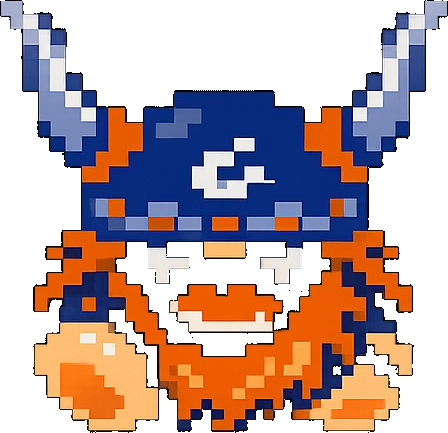
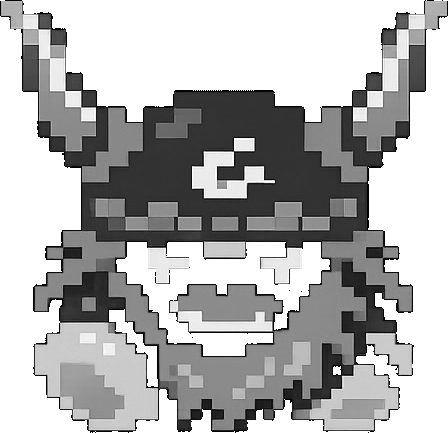
Adjust colors

diff --git a/src/ui/settings_panel.py b/src/ui/settings_panel.py
@@ -111,14 +111,14 @@ class Slider:
         self.dragging = False
         self.hovered = False
         
-        # Colors
-        self.track_color = (60, 60, 60)
-        self.track_fill_color = (80, 120, 180)
-        self.handle_color = (180, 180, 180)
-        self.handle_hover_color = (220, 220, 220)
-        self.handle_drag_color = (100, 150, 220)
-        self.label_color = (200, 200, 200)
-        self.value_color = (150, 200, 255)
+        # Colors (duller to make arrows stand out)
+        self.track_color = (30, 30, 30)
+        self.track_fill_color = (40, 50, 70)
+        self.handle_color = (70, 70, 70)
+        self.handle_hover_color = (85, 85, 85)
+        self.handle_drag_color = (50, 60, 80)
+        self.label_color = (80, 80, 80)
+        self.value_color = (60, 75, 95)
         
     def _update_handle_position(self):
         """Update handle position based on current value"""
@@ -199,7 +199,7 @@ class Slider:
             color = self.handle_color
             
         pygame.draw.rect(screen, color, self.handle_rect, border_radius=4)
-        pygame.draw.rect(screen, (100, 100, 100), self.handle_rect, 1, border_radius=4)
+        pygame.draw.rect(screen, (45, 45, 45), self.handle_rect, 1, border_radius=4)
         
         # Draw value
         value_text = self.format_str.format(self.value)
@@ -249,13 +249,13 @@ class Dropdown:
         self.is_open = False
         self.hovered_index = -1
         
-        # Colors
-        self.bg_color = (50, 50, 50)
-        self.hover_color = (70, 90, 120)
-        self.border_color = (100, 100, 100)
-        self.text_color = (200, 200, 200)
-        self.label_color = (200, 200, 200)
-        self.arrow_color = (150, 150, 150)
+        # Colors (duller to make arrows stand out)
+        self.bg_color = (25, 25, 25)
+        self.hover_color = (35, 40, 50)
+        self.border_color = (45, 45, 45)
+        self.text_color = (80, 80, 80)
+        self.label_color = (80, 80, 80)
+        self.arrow_color = (60, 60, 60)
         
     def handle_event(self, event: pygame.event.Event) -> bool:
         """
@@ -383,9 +383,9 @@ class Button:
         rect: pygame.Rect,
         text: str,
         font: pygame.font.Font = None,
-        color: Tuple[int, int, int] = (70, 70, 70),
-        hover_color: Tuple[int, int, int] = (90, 110, 140),
-        text_color: Tuple[int, int, int] = (220, 220, 220),
+        color: Tuple[int, int, int] = (35, 35, 35),
+        hover_color: Tuple[int, int, int] = (45, 50, 60),
+        text_color: Tuple[int, int, int] = (85, 85, 85),
     ):
         self.rect = rect
         self.text = text
@@ -416,7 +416,7 @@ class Button:
         color = self.hover_color if self.hovered else self.color
         
         pygame.draw.rect(screen, color, self.rect, border_radius=5)
-        pygame.draw.rect(screen, (120, 120, 120), self.rect, 2, border_radius=5)
+        pygame.draw.rect(screen, (55, 55, 55), self.rect, 2, border_radius=5)
         
         text_surface = self.font.render(self.text, True, self.text_color)
         text_rect = text_surface.get_rect(center=self.rect.center)
@@ -479,11 +479,11 @@ class SettingsPanel:
         self.label_font = pygame.font.Font(None, 24)
         self.info_font = pygame.font.Font(None, 22)
         
-        # Colors
-        self.bg_color = (35, 35, 40)
-        self.border_color = (80, 80, 90)
-        self.title_color = (220, 220, 230)
-        self.info_color = (150, 180, 220)
+        # Colors (duller to make arrows stand out)
+        self.bg_color = (20, 20, 22)
+        self.border_color = (40, 40, 45)
+        self.title_color = (90, 90, 95)
+        self.info_color = (60, 70, 85)
         
         # Create UI elements
         self._create_ui_elements()
@@ -563,8 +563,8 @@ class SettingsPanel:
             ),
             text="Apply",
             font=self.label_font,
-            color=(50, 100, 50),
-            hover_color=(70, 140, 70),
+            color=(25, 45, 25),
+            hover_color=(35, 60, 35),
         )
         
         self.cancel_button = Button(
@@ -576,8 +576,8 @@ class SettingsPanel:
             ),
             text="Cancel",
             font=self.label_font,
-            color=(100, 50, 50),
-            hover_color=(140, 70, 70),
+            color=(45, 25, 25),
+            hover_color=(60, 35, 35),
         )
         
     def set_values(self, values: SettingsValues):
@@ -744,7 +744,7 @@ class SettingsPanel:
         duration_s = duration_ms / 1000
         
         duration_text = f"Est. selection time: {duration_s:.1f}s"
-        duration_surface = self.info_font.render(duration_text, True, (120, 150, 120))
+        duration_surface = self.info_font.render(duration_text, True, (50, 65, 50))
         duration_rect = duration_surface.get_rect(
             centerx=self.panel_rect.centerx,
             top=info_y + 22
@@ -819,11 +819,11 @@ def demo():
                 pass
                 
         # Draw
-        screen.fill((30, 30, 35))
+        screen.fill((10, 10, 12))
         
         # Draw background info
         if not panel.is_visible:
-            text = font.render("Press S to open settings", True, (100, 100, 100))
+            text = font.render("Press S to open settings", True, (50, 50, 50))
             rect = text.get_rect(center=(screen_width // 2, screen_height // 2))
             screen.blit(text, rect)
             

diff --git a/src/ui/mode_selector.py b/src/ui/mode_selector.py
@@ -30,12 +30,12 @@ MODE_CONFIGS = {
     AppMode.DATA_COLLECTION: ModeConfig(
         name="Data Collection",
         description="Collect EEG training data for BCI calibration",
-        color=(180, 180, 180),  # Light gray
+        color=(70, 70, 70),  # Dull gray
     ),
     AppMode.GAME: ModeConfig(
         name="Game Mode", 
         description="Play the maze game using BCI control",
-        color=(140, 140, 140),  # Medium gray
+        color=(60, 60, 60),  # Dull gray
     ),
 }
 
@@ -61,15 +61,15 @@ class ModeSelector:
         self.desc_font = pygame.font.Font(None, 28)
         self.hint_font = pygame.font.Font(None, 24)
         
-        # Colors (grayscale)
-        self.bg_color = (20, 20, 20)
-        self.title_color = (220, 220, 220)
-        self.subtitle_color = (140, 140, 140)
-        self.button_color = (50, 50, 50)
-        self.button_hover_color = (80, 80, 80)
-        self.button_text_color = (200, 200, 200)
-        self.desc_color = (120, 120, 120)
-        self.hint_color = (80, 80, 80)
+        # Colors (much duller grayscale to make arrows stand out)
+        self.bg_color = (10, 10, 10)
+        self.title_color = (90, 90, 90)
+        self.subtitle_color = (60, 60, 60)
+        self.button_color = (25, 25, 25)
+        self.button_hover_color = (40, 40, 40)
+        self.button_text_color = (80, 80, 80)
+        self.desc_color = (55, 55, 55)
+        self.hint_color = (40, 40, 40)
         
         # Button dimensions
         self.button_width = 400
@@ -155,7 +155,7 @@ class ModeSelector:
             pygame.draw.rect(screen, bg_color, rect, border_radius=10)
             
             # Button border
-            border_color = (150, 150, 150) if is_hovered else (100, 100, 100)
+            border_color = (60, 60, 60) if is_hovered else (45, 45, 45)
             pygame.draw.rect(screen, border_color, rect, 2, border_radius=10)
             
             # Mode indicator bar on left
@@ -274,11 +274,11 @@ if __name__ == "__main__":
             
             # Show hint
             font = pygame.font.Font(None, 36)
-            text = font.render(f"Running in {MODE_CONFIGS[selected_mode].name}", True, (150, 150, 150))
+            text = font.render(f"Running in {MODE_CONFIGS[selected_mode].name}", True, (60, 60, 60))
             rect = text.get_rect(center=(screen_width // 2, screen_height // 2))
             screen.blit(text, rect)
             
-            hint = pygame.font.Font(None, 24).render("Press ESC to go back", True, (80, 80, 80))
+            hint = pygame.font.Font(None, 24).render("Press ESC to go back", True, (40, 40, 40))
             hint_rect = hint.get_rect(center=(screen_width // 2, screen_height // 2 + 40))
             screen.blit(hint, hint_rect)
         else:

diff --git a/src/game/renderer.py b/src/game/renderer.py
@@ -39,26 +39,26 @@ class RenderConfig:
     # Cell size
     cell_size: int = 32
     
-    # Maze colors (grayscale to not interfere with arrows)
-    wall_color: Tuple[int, int, int] = (50, 50, 50)
-    path_color: Tuple[int, int, int] = (30, 30, 30)
-    start_color: Tuple[int, int, int] = (45, 45, 45)
-    goal_color: Tuple[int, int, int] = (55, 55, 55)
+    # Maze colors (much duller grayscale to make arrows stand out)
+    wall_color: Tuple[int, int, int] = (30, 30, 30)
+    path_color: Tuple[int, int, int] = (18, 18, 18)
+    start_color: Tuple[int, int, int] = (25, 25, 25)
+    goal_color: Tuple[int, int, int] = (32, 32, 32)
     
-    # Player colors (grayscale)
-    player_color: Tuple[int, int, int] = (160, 160, 160)
-    player_outline: Tuple[int, int, int] = (120, 120, 120)
-    player_direction_color: Tuple[int, int, int] = (200, 200, 200)
+    # Player colors (much duller grayscale)
+    player_color: Tuple[int, int, int] = (70, 70, 70)
+    player_outline: Tuple[int, int, int] = (50, 50, 50)
+    player_direction_color: Tuple[int, int, int] = (80, 80, 80)
     
-    # Collectible colors (different gray shades for variety)
-    coin_color: Tuple[int, int, int] = (180, 180, 180)
-    gem_color: Tuple[int, int, int] = (140, 140, 140)
-    star_color: Tuple[int, int, int] = (200, 200, 200)
+    # Collectible colors (much duller gray shades)
+    coin_color: Tuple[int, int, int] = (75, 75, 75)
+    gem_color: Tuple[int, int, int] = (60, 60, 60)
+    star_color: Tuple[int, int, int] = (80, 80, 80)
     
-    # UI colors (grayscale)
-    ui_bg_color: Tuple[int, int, int] = (20, 20, 20)
-    ui_text_color: Tuple[int, int, int] = (180, 180, 180)
-    ui_highlight_color: Tuple[int, int, int] = (220, 220, 220)
+    # UI colors (much duller grayscale)
+    ui_bg_color: Tuple[int, int, int] = (15, 15, 15)
+    ui_text_color: Tuple[int, int, int] = (70, 70, 70)
+    ui_highlight_color: Tuple[int, int, int] = (90, 90, 90)
     
     # Sizes
     player_size_ratio: float = 1.0   # Player fills entire cell

diff --git a/main.py b/main.py
@@ -452,26 +452,26 @@ class Application:
             self.config.display.width,
             bar_height
         )
-        pygame.draw.rect(self.screen, (30, 30, 30), bar_rect)
+        pygame.draw.rect(self.screen, (15, 15, 15), bar_rect)
         
         # Status text
         state = self.arrow_manager.state
         if state == SelectionState.IDLE:
             status = "Press SPACE to start BCI selection"
-            color = (100, 100, 100)
+            color = (50, 50, 50)
         elif state == SelectionState.FLASHING:
             progress = self.arrow_manager.progress * 100
             status = f"Flashing... {progress:.0f}%"
-            color = (100, 200, 100)
+            color = (45, 70, 45)
         elif state == SelectionState.PROCESSING:
             status = "Processing... (Press 1-4 to simulate)"
-            color = (200, 200, 100)
+            color = (70, 70, 45)
         elif state == SelectionState.FEEDBACK:
             status = f"Selected: {self.last_selection.direction.value if self.last_selection else '?'}"
-            color = (100, 150, 255)
+            color = (45, 60, 80)
         else:
             status = str(state.name)
-            color = (100, 100, 100)
+            color = (50, 50, 50)
             
         text = self.font_medium.render(status, True, color)
         text_rect = text.get_rect(
@@ -519,7 +519,7 @@ class Application:
         y = padding * 2
         for line in lines:
             if line:
-                text = self.font_small.render(line, True, (150, 150, 150))
+                text = self.font_small.render(line, True, (60, 60, 60))
                 self.screen.blit(text, 
                     (self.config.display.width - width, y))
             y += line_height

diff --git a/config.py b/config.py
@@ -62,7 +62,7 @@ class DisplayConfig:
     fullscreen: bool = False
     fps: int = 60
     vsync: bool = True
-    background_color: Tuple[int, int, int] = (20, 20, 20)
+    background_color: Tuple[int, int, int] = (10, 10, 10)
 
 
 @dataclass  
@@ -188,10 +188,10 @@ class LayoutConfig:
 @dataclass
 class GameConfig:
     """Maze game settings"""
-    # Colors (grayscale to not interfere with arrows)
-    wall_color: Tuple[int, int, int] = (100, 100, 100)
-    path_color: Tuple[int, int, int] = (60, 60, 60)
-    player_color: Tuple[int, int, int] = (150, 150, 150)
+    # Colors (much duller grayscale to make arrows stand out)
+    wall_color: Tuple[int, int, int] = (40, 40, 40)
+    path_color: Tuple[int, int, int] = (25, 25, 25)
+    player_color: Tuple[int, int, int] = (70, 70, 70)
     
     # Maze
     cell_size: int = 40

diff --git a/src/game/collectible.py b/src/game/collectible.py
@@ -41,11 +41,11 @@ class CollectibleConfig:
     bob_speed: float = 2.0        # Bobbing cycles per second
     rotation_speed: float = 90.0  # Degrees per second (for gems/stars)
     
-    # Colors (simple shapes)
-    coin_color: Tuple[int, int, int] = (255, 215, 0)      # Gold
-    gem_color: Tuple[int, int, int] = (0, 200, 255)       # Cyan
-    star_color: Tuple[int, int, int] = (255, 255, 100)    # Yellow
-    powerup_color: Tuple[int, int, int] = (255, 100, 255) # Magenta
+    # Colors (dull grayscale to make arrows stand out)
+    coin_color: Tuple[int, int, int] = (75, 75, 75)      # Dull gray
+    gem_color: Tuple[int, int, int] = (60, 60, 60)       # Dull gray
+    star_color: Tuple[int, int, int] = (80, 80, 80)      # Dull gray
+    powerup_color: Tuple[int, int, int] = (70, 70, 70)   # Dull gray
 
 
 @dataclass

diff --git a/src/game/game_manager.py b/src/game/game_manager.py
@@ -578,13 +578,13 @@ def demo():
         manager.update(delta_ms)
         
         # Draw
-        screen.fill((20, 20, 25))
+        screen.fill((10, 10, 12))
         manager.draw(screen)
         
         # Draw controls hint at bottom
         hint = font.render(
             "Arrow keys: Move | R: Restart | N: Next Level | ESC: Quit",
-            True, (80, 80, 80)
+            True, (40, 40, 40)
         )
         screen.blit(hint, (10, screen_height - 25))
         

diff --git a/src/stimulus/arrow_manager.py b/src/stimulus/arrow_manager.py
@@ -481,7 +481,7 @@ def demo():
         
         y = 10
         for line in status_lines:
-            text = font.render(line, True, (100, 100, 100))
+            text = font.render(line, True, (50, 50, 50))
             screen.blit(text, (10, y))
             y += 30
             
